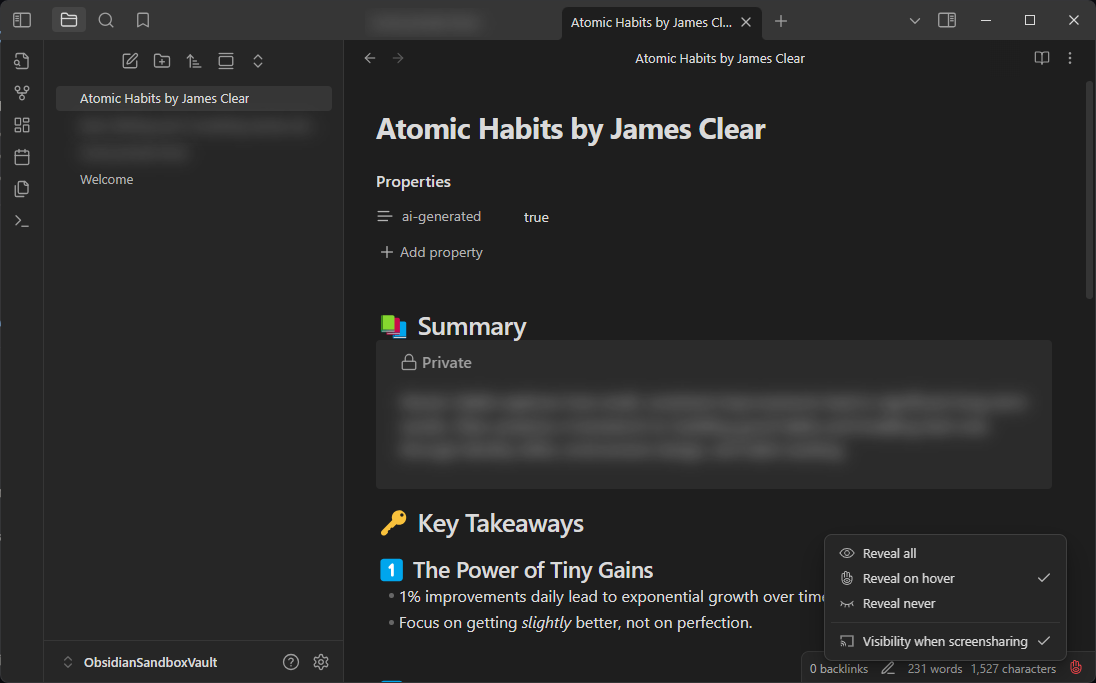
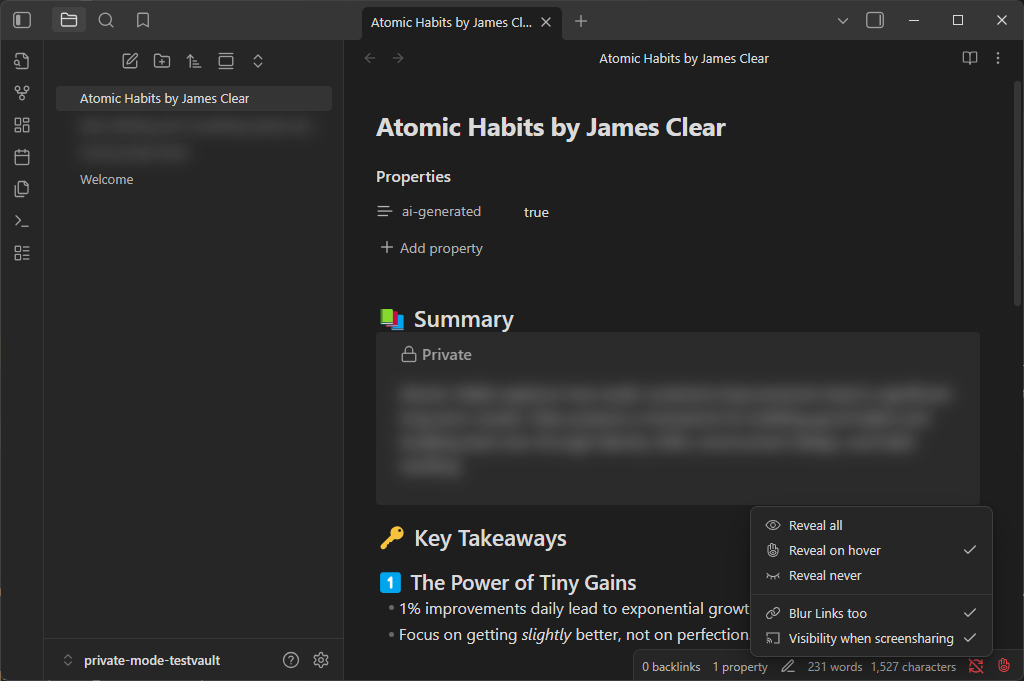
Added ability to disable link blurring
fixes #1

diff --git a/main.ts b/main.ts
@@ -4,13 +4,7 @@
  * Licensed under the MIT License (http://opensource.org/licenses/MIT)
  */
 
-import {
-    addIcon,
-    Menu,
-    Platform,
-    Plugin,
-    setIcon,
-} from "obsidian";
+import {addIcon, Menu, Platform, Plugin, setIcon,} from "obsidian";
 
 enum Level {
     HidePrivate = "hide-private",
@@ -21,7 +15,8 @@ enum Level {
 enum CssClass {
     RevealAll = "private-mode-reveal-all",
     RevealOnHover = "private-mode-reveal-on-hover",
-    UnprotectedScreenshare = "private-mode-unprotected-screenshare"
+    UnprotectedScreenshare = "private-mode-unprotected-screenshare",
+    BlurLinksToo = "private-mode-blur-links-too"
 }
 
 export default class PrivateModePlugin extends Plugin {
@@ -29,6 +24,7 @@ export default class PrivateModePlugin extends Plugin {
     statusBarSpan: HTMLSpanElement;
     currentLevel: Level = Level.RevealOnHover;
     currentScreenshareProtection: boolean = true;
+    blurLinksToo: boolean = true;
 
     async onload() {
         this.statusBar = this.addStatusBarItem();
@@ -71,6 +67,17 @@ export default class PrivateModePlugin extends Plugin {
                 menu.addSeparator()
                 menu.addItem((item) =>
                     item
+                        .setTitle('Blur Links too')
+                        .setIcon('ph--link')
+                        .setChecked(this.blurLinksToo)
+                        .onClick(() => {
+                            this.blurLinksToo = !this.blurLinksToo;
+                            item.setChecked(!this.blurLinksToo)
+                            this.updateGlobalRevealStyle();
+                        })
+                );
+                menu.addItem((item) =>
+                    item
                         .setTitle('Visibility when screensharing')
                         .setIcon('ph--screencast')
                         .setChecked(!this.currentScreenshareProtection)
@@ -98,6 +105,7 @@ export default class PrivateModePlugin extends Plugin {
         addIcon("ph--eye-hand", eyeHand);
         addIcon("ph--eye-closed", eyeClosedIcon);
         addIcon("ph--screencast", screencastIcon);
+        addIcon("ph--link", linkIcon);
 
         this.addCommand({
             id: "hide-private",
@@ -176,13 +184,17 @@ export default class PrivateModePlugin extends Plugin {
         document.body.removeClass(
             CssClass.RevealAll,
             CssClass.RevealOnHover,
-            CssClass.UnprotectedScreenshare
+            CssClass.UnprotectedScreenshare,
+            CssClass.BlurLinksToo
         );
     }
 
     setClassToDocumentBody() {
         if (!this.currentScreenshareProtection) {
             document.body.classList.add(CssClass.UnprotectedScreenshare)
+        }
+        if (this.blurLinksToo) {
+            document.body.classList.add(CssClass.BlurLinksToo)
         }
         switch (this.currentLevel) {
             case Level.HidePrivate:
@@ -212,3 +224,6 @@ const eyeIcon = `<svg xmlns="http://www.w3.org/2000/svg" preserveAspectRatio="xM
 
 // https://icon-sets.iconify.design/ph/screencast/
 const screencastIcon = `<svg xmlns="http://www.w3.org/2000/svg" preserveAspectRatio="xMidYMid meet" viewBox="0 0 256 256"><path fill="currentColor" d="M232 56v144a16 16 0 0 1-16 16h-72a8 8 0 0 1 0-16h72V56H40v40a8 8 0 0 1-16 0V56a16 16 0 0 1 16-16h176a16 16 0 0 1 16 16M32 184a8 8 0 0 0 0 16a8 8 0 0 1 8 8a8 8 0 0 0 16 0a24 24 0 0 0-24-24m0-32a8 8 0 0 0 0 16a40 40 0 0 1 40 40a8 8 0 0 0 16 0a56.06 56.06 0 0 0-56-56m0-32a8 8 0 0 0 0 16a72.08 72.08 0 0 1 72 72a8 8 0 0 0 16 0a88.1 88.1 0 0 0-88-88"/></svg>`;
+
+// https://icon-sets.iconify.design/ph/link/
+const linkIcon = `<svg xmlns="http://www.w3.org/2000/svg" preserveAspectRatio="xMidYMid meet" viewBox="0 0 256 256"><path fill="currentColor" d="M240 88.23a54.43 54.43 0 0 1-16 37L189.25 160a54.27 54.27 0 0 1-38.63 16h-.05A54.63 54.63 0 0 1 96 119.84a8 8 0 0 1 16 .45A38.62 38.62 0 0 0 150.58 160a38.4 38.4 0 0 0 27.31-11.31l34.75-34.75a38.63 38.63 0 0 0-54.63-54.63l-11 11A8 8 0 0 1 135.7 59l11-11a54.65 54.65 0 0 1 77.3 0a54.86 54.86 0 0 1 16 40.23m-131 97.43l-11 11A38.4 38.4 0 0 1 70.6 208a38.63 38.63 0 0 1-27.29-65.94L78 107.31a38.63 38.63 0 0 1 66 28.4a8 8 0 0 0 16 .45A54.86 54.86 0 0 0 144 96a54.65 54.65 0 0 0-77.27 0L32 130.75A54.62 54.62 0 0 0 70.56 224a54.28 54.28 0 0 0 38.64-16l11-11a8 8 0 0 0-11.2-11.34"/></svg>`;

diff --git a/styles.scss b/styles.scss
@@ -9,11 +9,11 @@
 }
 
 $element-selectors: (
-    ".data-link-text[data-link-tags*='#private']:not(.tree-item-inner,.suggestion-title)": 1, // Link items
-    ".dataview tr:has(a[data-link-tags*='#private'])": 1, // dataview tables
-    ".suggestion-item:has([data-link-tags*='#private'])": 1, // Search results
-    ".nav-file-title:has([data-link-tags*='#private'])": 1, // "Files" tree
-    ".search-result:has([data-link-tags*='#private'])": 1, // Sidebar search
+    "body.private-mode-blur-links-too .data-link-text[data-link-tags*='#private']:not(.tree-item-inner,.suggestion-title)": 1, // Link items
+    "body.private-mode-blur-links-too .dataview tr:has(a[data-link-tags*='#private'])": 1, // dataview tables
+    "body.private-mode-blur-links-too .suggestion-item:has([data-link-tags*='#private'])": 1, // Search results
+    "body.private-mode-blur-links-too .nav-file-title:has([data-link-tags*='#private'])": 1, // "Files" tree
+    "body.private-mode-blur-links-too .search-result:has([data-link-tags*='#private'])": 1, // Sidebar search
 
     ".workspace-tabs:has(.is-active [data-link-tags*='#private']) .inline-title": 1,
     ".workspace-tabs:has(.is-active [data-link-tags*='#private']) .cm-line": 1,
@@ -60,6 +60,7 @@ body.private-mode-reveal-on-hover .callout[data-callout="private"]:not(.is-colla
     filter: none;
 }
 
+/* screenshare protection */
 body.private-mode-unprotected-screenshare .status-bar-item.plugin-private-mode {
     color: var(--text-error);
 }

diff --git a/README.md b/README.md
@@ -3,15 +3,16 @@ Simple #private mode for [Obsidian](https://obsidian.md/). All files, links and 
 
 **This plugin requires the obsidian plugin [Supercharged Links](https://github.com/mdelobelle/obsidian_supercharged_links) to work**
 
-![docs/img.png](./docs/showcase_1.png)
+![docs/showcase_1.png](docs/showcase_1.png)
 
-![docs/img_1.png](./docs/showcase_2.png)
+![docs/showcase_2.png](./docs/showcase_2.png)
 
 # Features
 * 3⃣ Three Modes
   * Reveal all: to disable the blurring completely
   * Reveal on hover: only show #private content on hover (default)
   * Reveal never: only show #private content for the currently editing line
+* 🔗 Blur also all links to #private files, or not, its your choice
 * 💻 By default not visible when using screenshare! Keep your secrets :) (desktop-only)
 * 📱 Supported on Obsidian Mobile
 * 🎀 Commands to set visibility (also usable on mobile)
